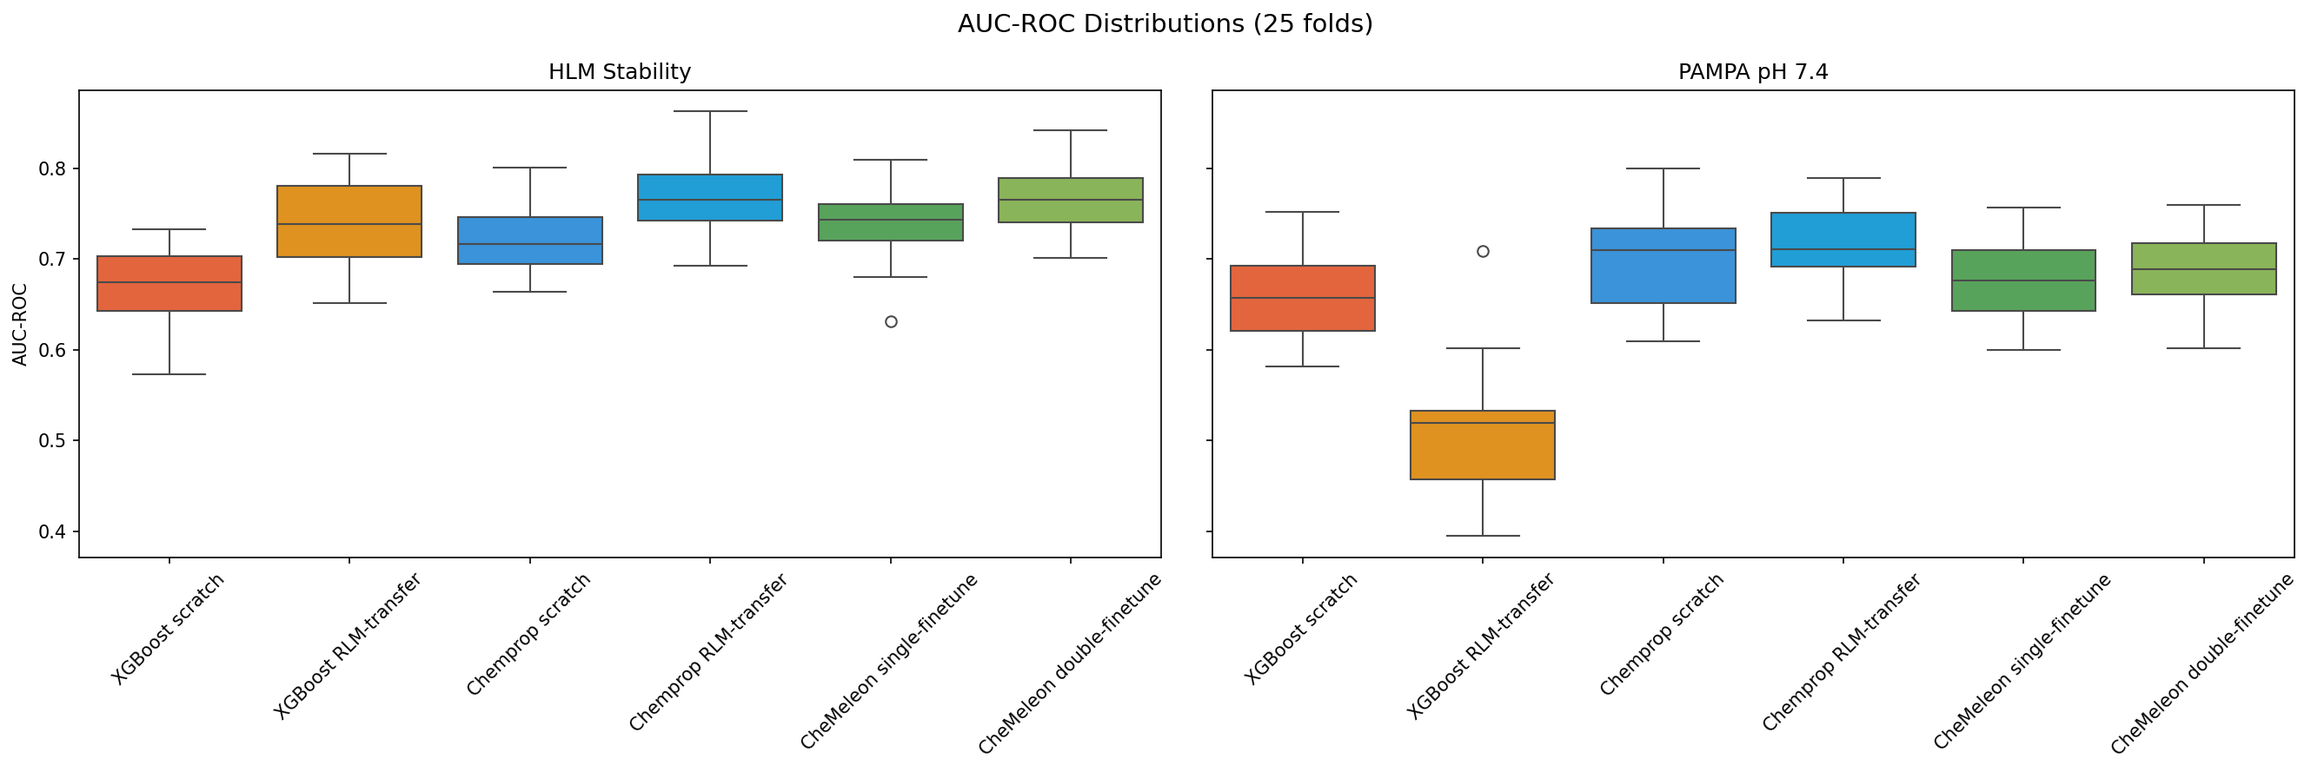
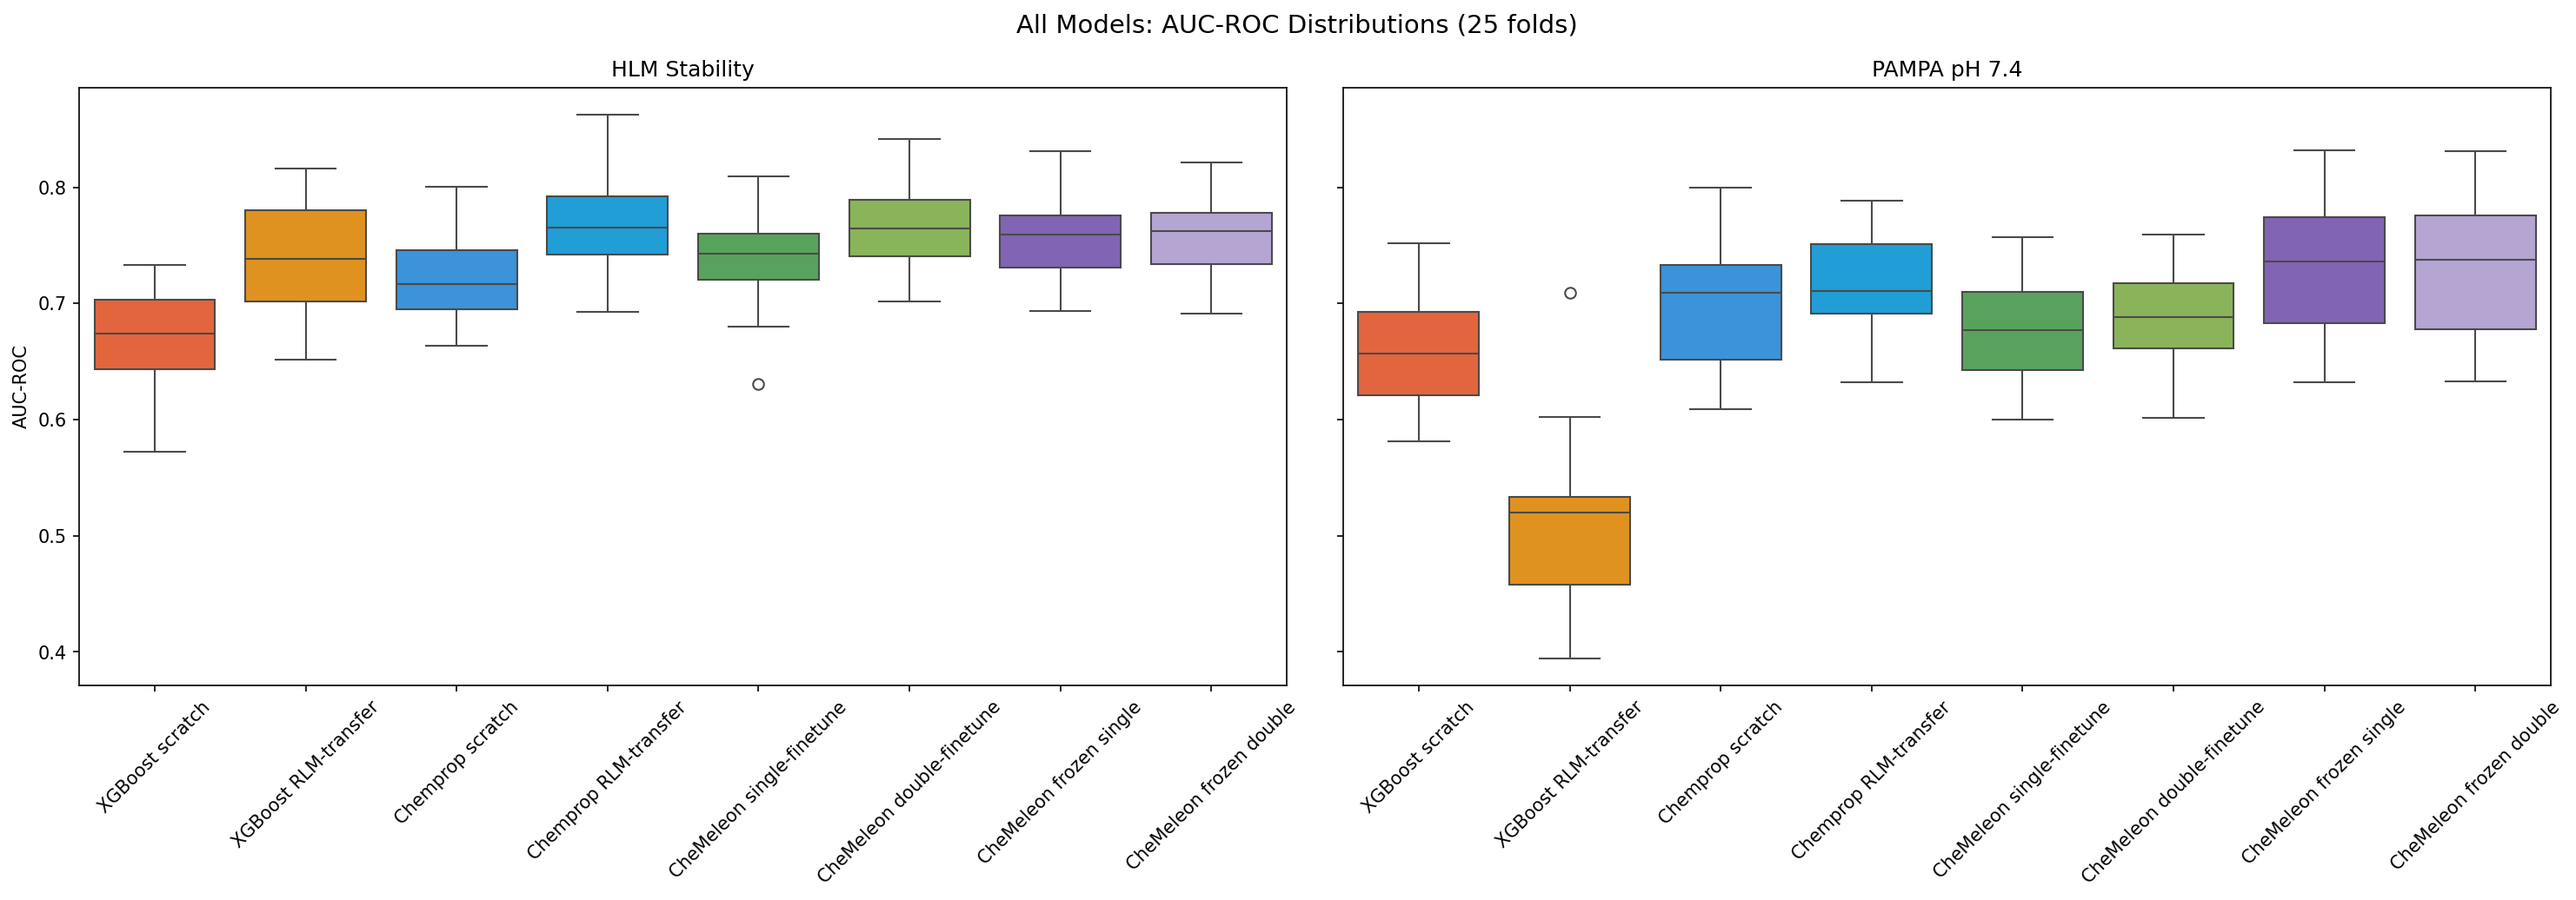
update all-model comparison to include frozen CheMeleon variants
All plots, tables, and Tukey HSD now include 8 models. Best model by
endpoint: HLM = Chemprop RLM-transfer (0.768), PAMPA = CheMeleon frozen
double (0.730). Updated combined results table, model matrix, boxplots,
and Tukey HSD confidence interval plots.

diff --git a/notebooks/06-analysis.py b/notebooks/06-analysis.py
@@ -38,10 +38,14 @@ def _(DATA_DIR, logger, pl):
     xgb_df = pl.read_parquet(DATA_DIR / "xgb_results.parquet")
     chemprop_df = pl.read_parquet(DATA_DIR / "chemprop_results.parquet")
     chemeleon_df = pl.read_parquet(DATA_DIR / "chemeleon_results.parquet")
-    all_df = pl.concat([xgb_df, chemprop_df, chemeleon_df])
+    frozen_df = pl.read_parquet(DATA_DIR / "chemeleon_frozen_results.parquet")
+    all_df = pl.concat([xgb_df, chemprop_df, chemeleon_df, frozen_df])
     logger.info(
-        f"Combined: {all_df.height} results ({xgb_df.height} XGB + {chemprop_df.height} Chemprop + {chemeleon_df.height} CheMeleon)"
+        f"Combined: {all_df.height} results "
+        f"({xgb_df.height} XGB + {chemprop_df.height} Chemprop + "
+        f"{chemeleon_df.height} CheMeleon + {frozen_df.height} frozen)"
     )
+
     return (all_df,)
 
 
@@ -98,7 +102,6 @@ def _(all_df, mo, pairwise_tukeyhsd, pl, plt):
     intervals between any two groups indicate no significant difference.
         """),
     ])
-
     return
 
 
@@ -111,6 +114,8 @@ def _(all_df, mo, pl, plt, sns):
         "Chemprop RLM-transfer",
         "CheMeleon single-finetune",
         "CheMeleon double-finetune",
+        "CheMeleon frozen single",
+        "CheMeleon frozen double",
     ]
     _palette = {
         "XGBoost scratch": "#FF5722",
@@ -119,35 +124,30 @@ def _(all_df, mo, pl, plt, sns):
         "Chemprop RLM-transfer": "#03A9F4",
         "CheMeleon single-finetune": "#4CAF50",
         "CheMeleon double-finetune": "#8BC34A",
+        "CheMeleon frozen single": "#7E57C2",
+        "CheMeleon frozen double": "#B39DDB",
     }
 
-    _fig_box, _axes_box = plt.subplots(1, 2, figsize=(18, 6), sharey=True)
+    _fig_box, _axes_box = plt.subplots(1, 2, figsize=(20, 7), sharey=True)
     for _i, _target in enumerate(["HLM Stability", "PAMPA pH 7.4"]):
         _subset = all_df.filter(pl.col("target") == _target).to_pandas()
         sns.boxplot(
-            data=_subset,
-            x="model",
-            y="auc_roc",
-            hue="model",
-            ax=_axes_box[_i],
-            order=_model_order,
-            palette=_palette,
-            legend=False,
+            data=_subset, x="model", y="auc_roc", hue="model",
+            ax=_axes_box[_i], order=_model_order, palette=_palette, legend=False,
         )
-        _axes_box[_i].set_title(_target, fontsize=13)
+        _axes_box[_i].set_title(_target)
         _axes_box[_i].set_xlabel("")
         _axes_box[_i].set_ylabel("AUC-ROC" if _i == 0 else "")
         _axes_box[_i].tick_params(axis="x", rotation=45)
 
-    _fig_box.suptitle("AUC-ROC Distributions (25 folds)", fontsize=14)
+    _fig_box.suptitle("All Models: AUC-ROC Distributions (25 folds)", fontsize=14)
     plt.tight_layout()
 
-    mo.vstack(
-        [
-            mo.md("## AUC-ROC Distributions"),
-            mo.as_html(_fig_box),
-        ]
-    )
+    mo.vstack([
+        mo.md("## AUC-ROC Distributions"),
+        mo.as_html(_fig_box),
+    ])
+
     return
 
 

diff --git a/README.md b/README.md
@@ -101,8 +101,10 @@ vs foundation).
 | 2 | XGBoost RLM-transfer | Gradient-boosted trees | -- | Continue boosting from RLM model |
 | 3 | Chemprop scratch | D-MPNN (random init) | 318K | None |
 | 4 | Chemprop RLM-transfer | D-MPNN (RLM init) | 318K | Pre-train on RLM, new FFN head |
-| 5 | CheMeleon single-finetune | D-MPNN (foundation init) | 9.3M | Foundation -> target |
-| 6 | CheMeleon double-finetune | D-MPNN (foundation init) | 9.3M | Foundation -> RLM -> target |
+| 5 | CheMeleon single-finetune | D-MPNN (foundation init) | 9.3M | Foundation -> target (all weights) |
+| 6 | CheMeleon double-finetune | D-MPNN (foundation init) | 9.3M | Foundation -> RLM -> target (all weights) |
+| 7 | CheMeleon frozen single | D-MPNN (foundation init) | 615K trainable | Foundation -> target (FFN only) |
+| 8 | CheMeleon frozen double | D-MPNN (foundation init) | 615K trainable | Foundation -> RLM -> target (FFN only) |
 
 ## Results
 
@@ -114,6 +116,8 @@ vs foundation).
 | | XGBoost RLM-transfer | 0.734 +/- 0.046 |
 | | Chemprop scratch | 0.721 +/- 0.038 |
 | | CheMeleon single-finetune | 0.739 +/- 0.037 |
+| | CheMeleon frozen single | 0.755 +/- 0.034 |
+| | CheMeleon frozen double | 0.756 +/- 0.034 |
 | | CheMeleon double-finetune | 0.764 +/- 0.038 |
 | | **Chemprop RLM-transfer** | **0.768 +/- 0.042** |
 | **PAMPA pH 7.4** | XGBoost RLM-transfer | 0.509 +/- 0.069 |
@@ -121,7 +125,9 @@ vs foundation).
 | | CheMeleon single-finetune | 0.676 +/- 0.044 |
 | | CheMeleon double-finetune | 0.686 +/- 0.044 |
 | | Chemprop scratch | 0.701 +/- 0.053 |
-| | **Chemprop RLM-transfer** | **0.716 +/- 0.038** |
+| | Chemprop RLM-transfer | 0.716 +/- 0.038 |
+| | CheMeleon frozen single | 0.730 +/- 0.055 |
+| | **CheMeleon frozen double** | **0.730 +/- 0.056** |
 
 ### Transfer Learning Effect by Architecture
 
